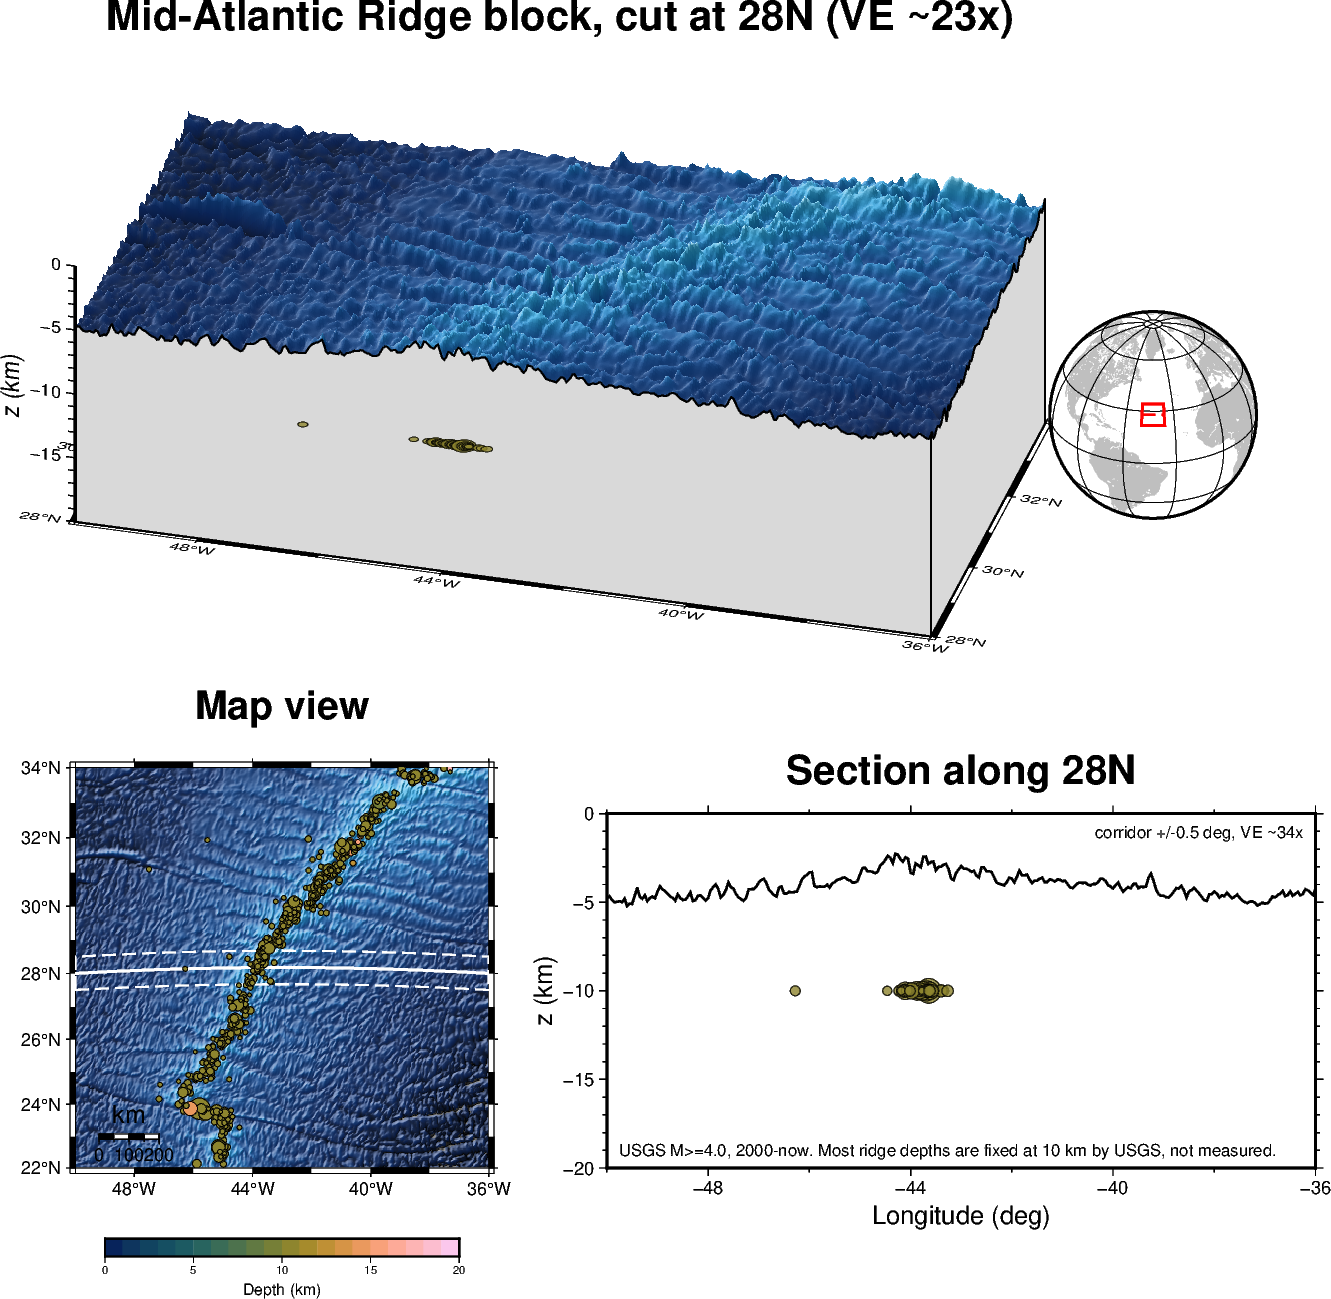
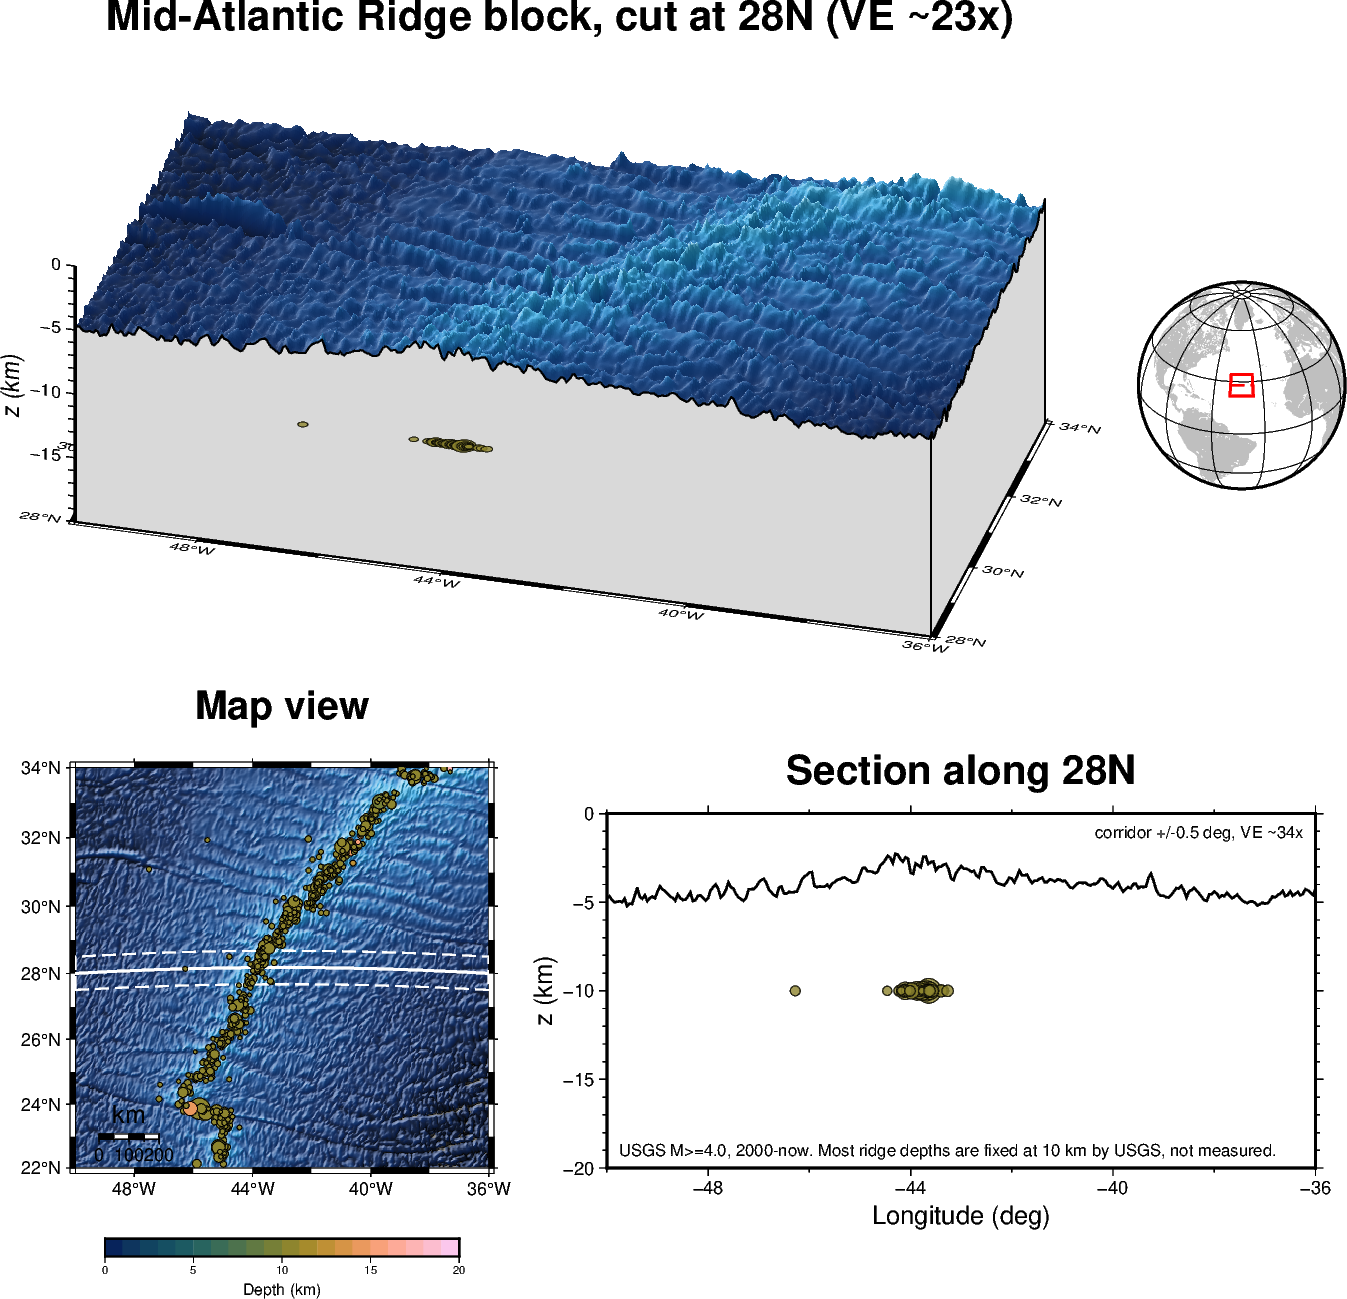
Ridge block example: more space between the globe and the 3D block

diff --git a/examples/04_ridge_block_3d.py b/examples/04_ridge_block_3d.py
@@ -58,13 +58,13 @@ fig.plot3d(x=corridor.longitude, y=[CUT_LAT] * len(corridor), z=-corridor.depth,
            perspective=PERSPECTIVE, region=north + [Z_MIN_KM, 0], projection=f"M{WIDTH_CM}c", zsize=f"{ZSIZE_CM}c")
 
 # (b) 小地球儀放在 3D 方塊右邊：紅框是研究區，紅虛線是切線
-fig.shift_origin(xshift="16.5c", yshift="2c")
+fig.shift_origin(xshift="18c", yshift="2.5c")
 lon_c, lat_c = (REGION[0] + REGION[1]) / 2, (REGION[2] + REGION[3]) / 2
 fig.coast(region="g", projection=f"G{lon_c}/{lat_c}/3.5c", land="gray75", water="white", frame="g")
 fig.plot(x=[REGION[0], REGION[1], REGION[1], REGION[0]], y=[REGION[2], REGION[2], REGION[3], REGION[3]],
          close=True, pen="1.2p,red")
 fig.plot(x=[REGION[0], REGION[1]], y=[CUT_LAT, CUT_LAT], pen="0.8p,red,--")
-fig.shift_origin(xshift="-16.5c", yshift="-2c")
+fig.shift_origin(xshift="-18c", yshift="-2.5c")
 
 # (c) 平面圖：切線與走廊
 fig.shift_origin(yshift="-9c")
